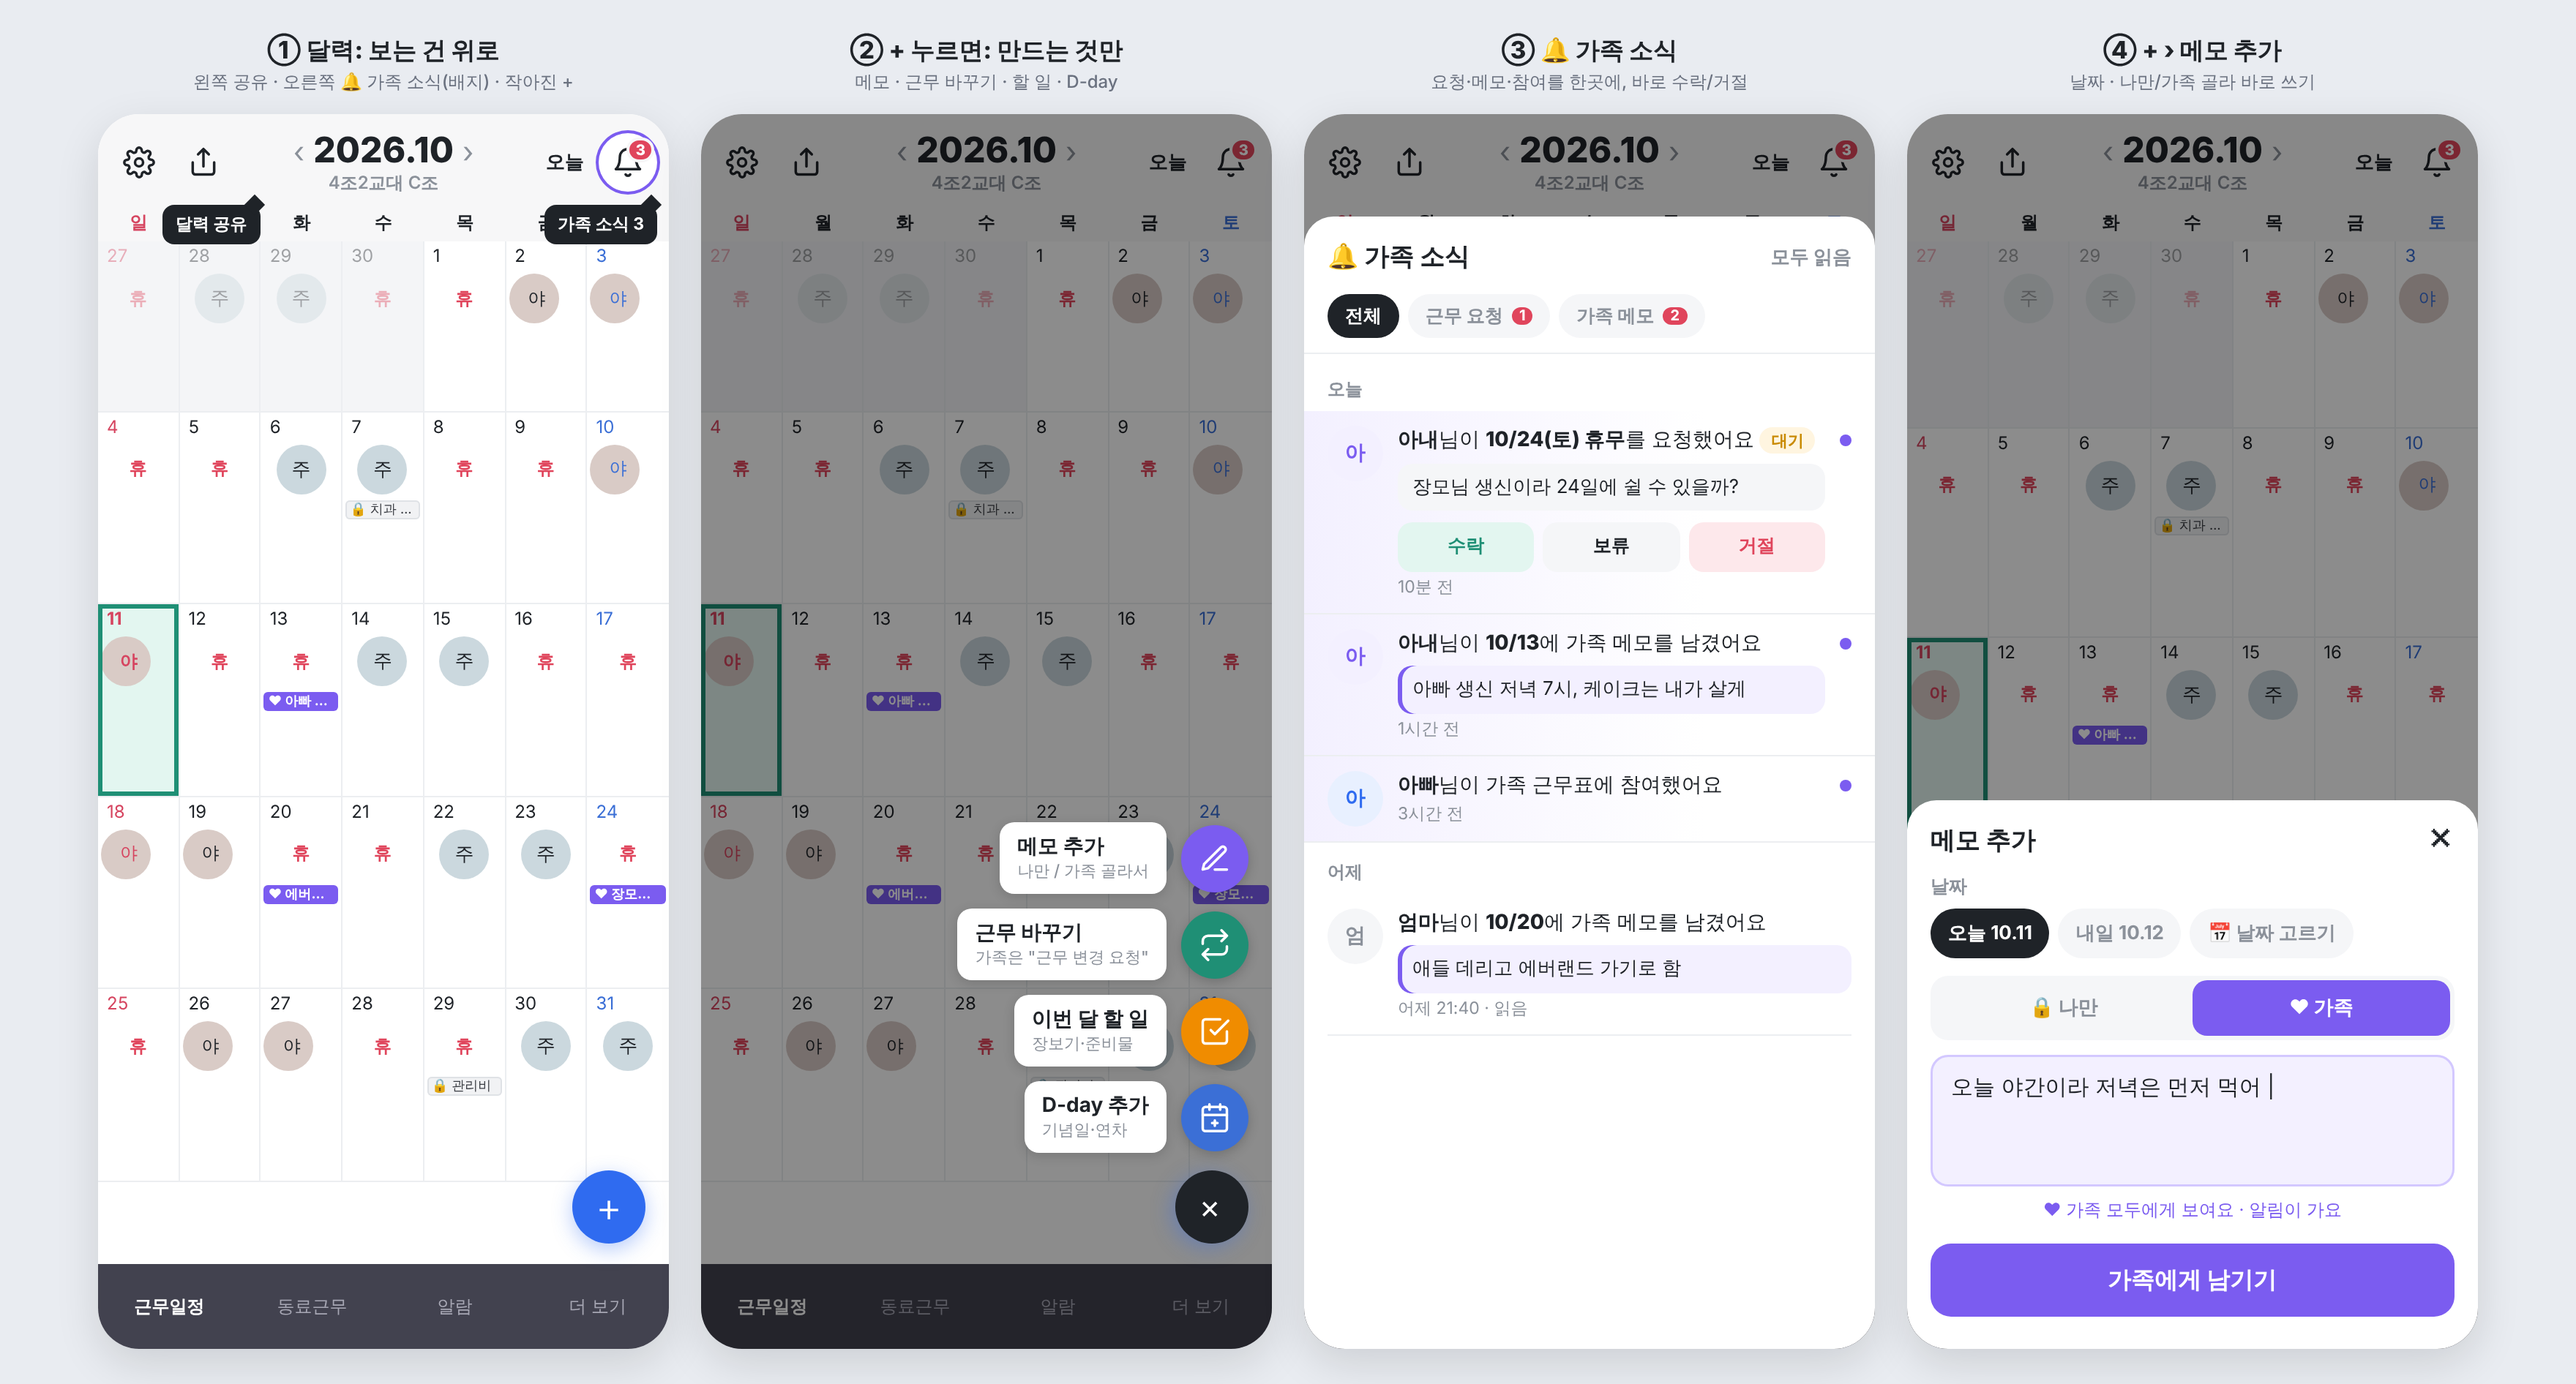
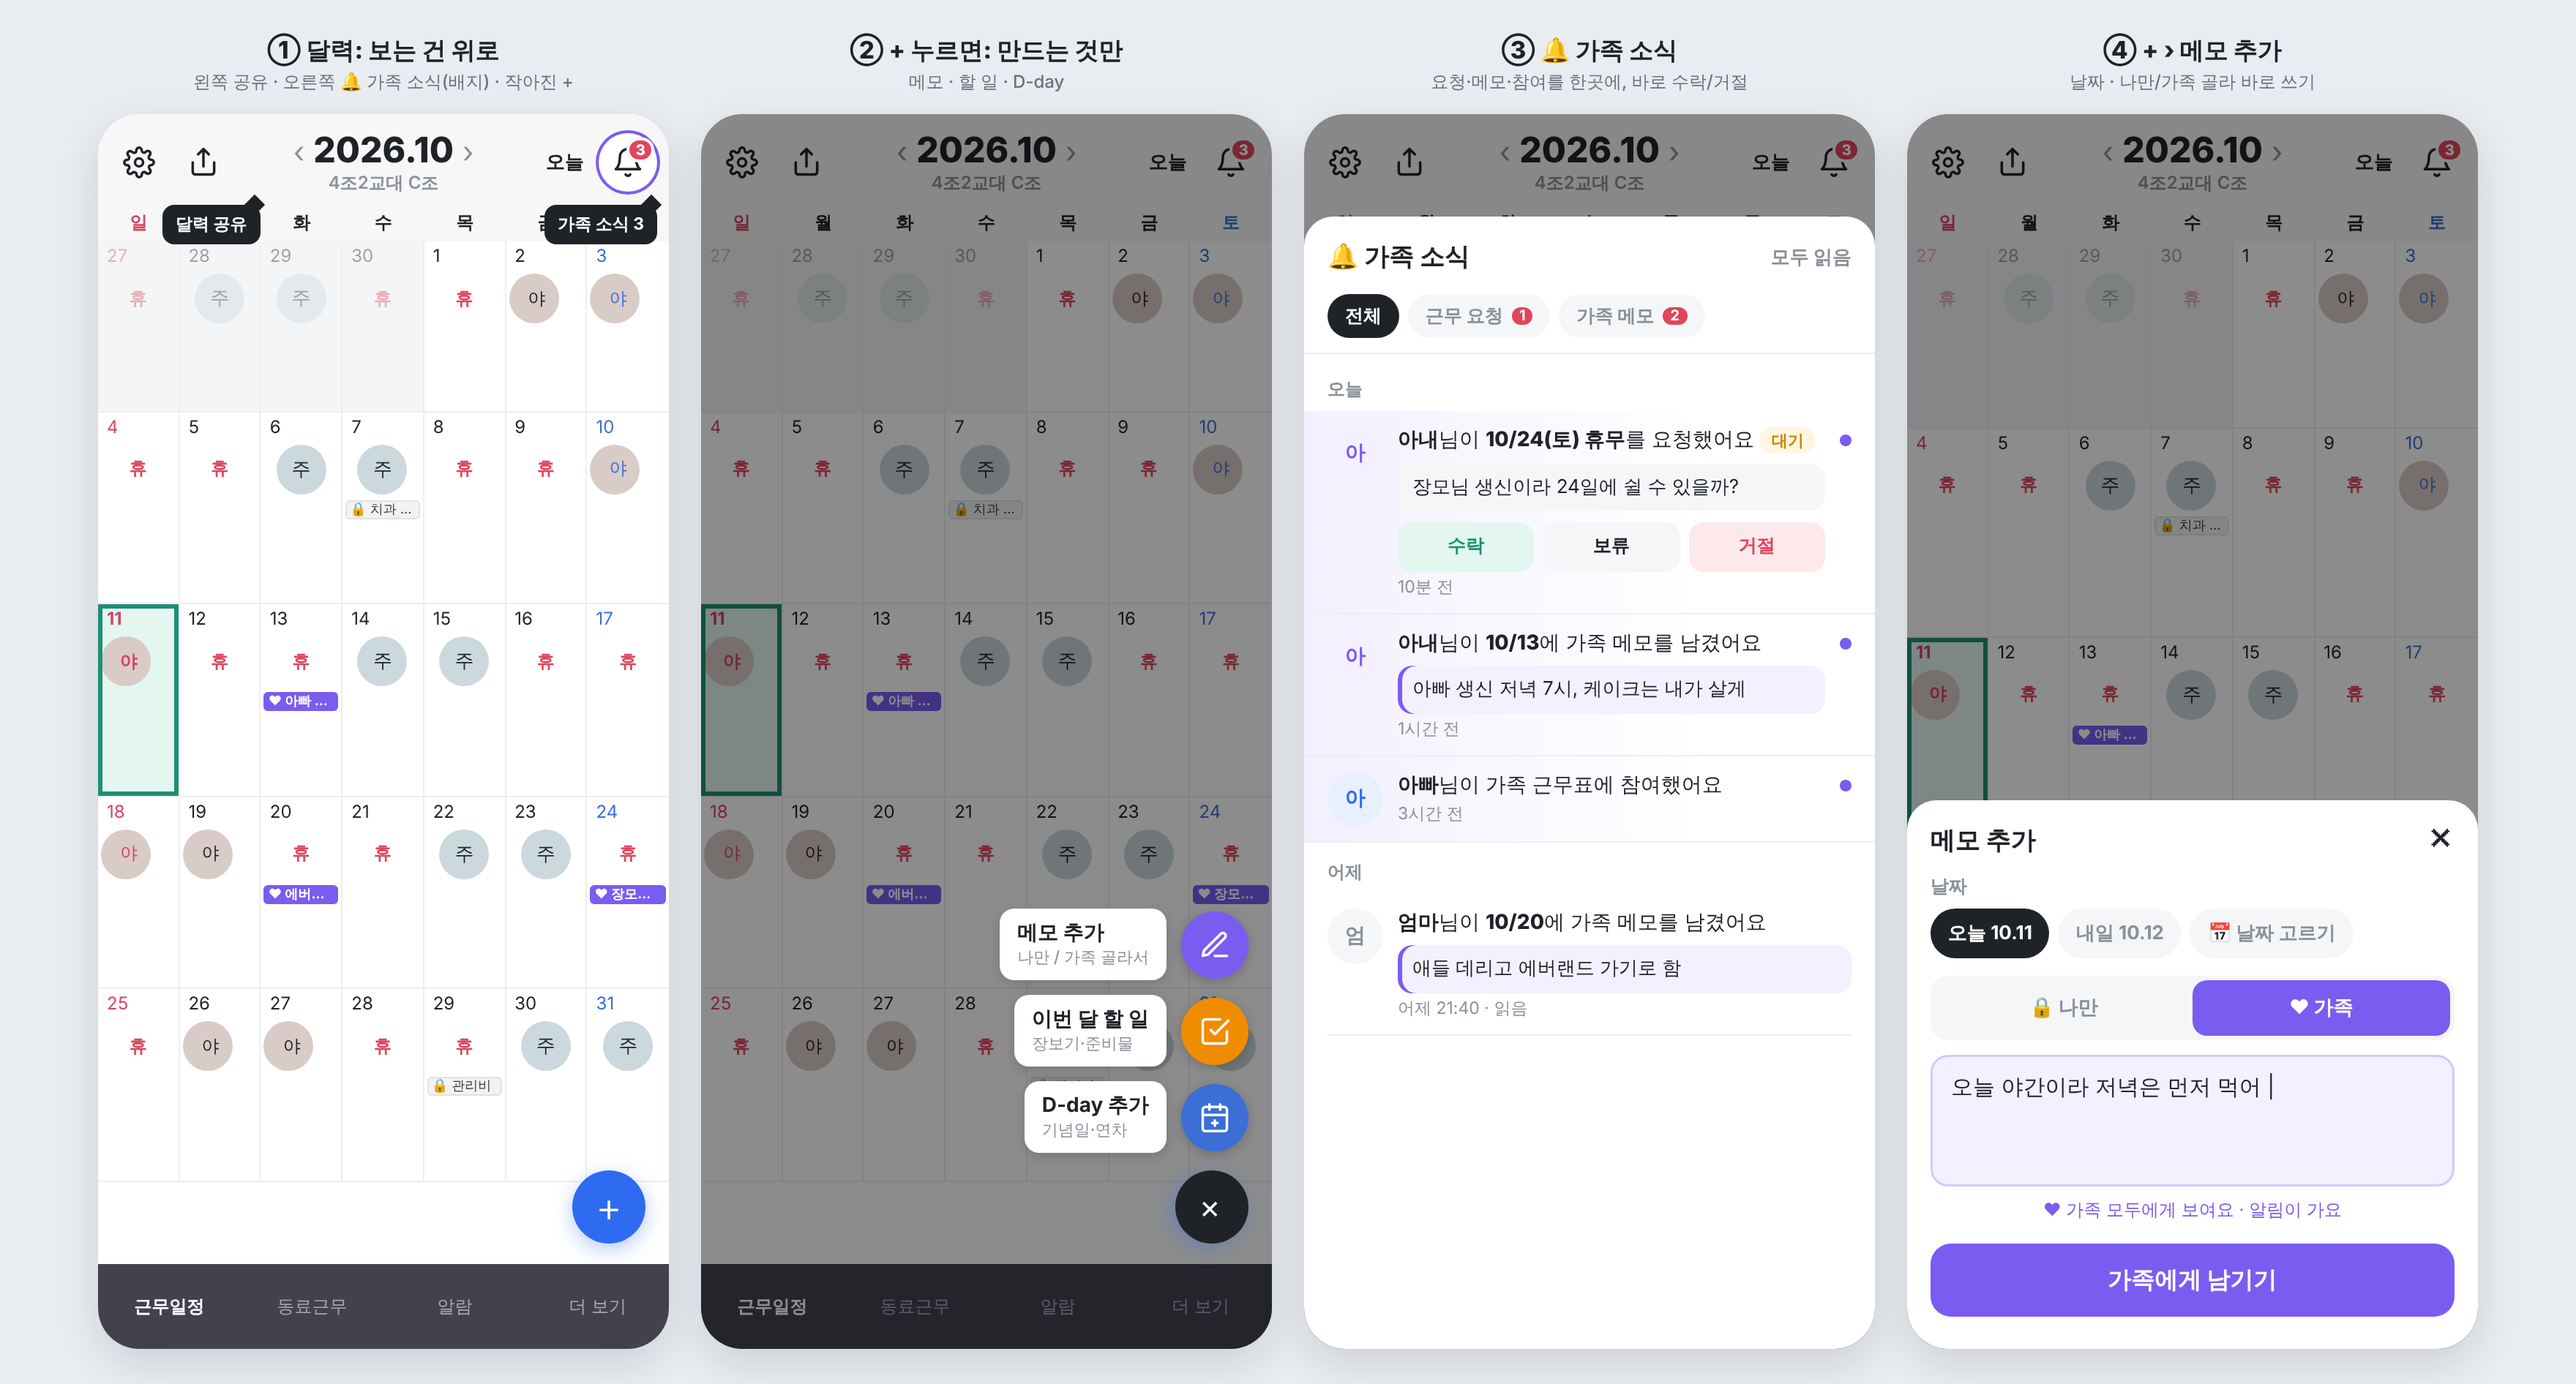
+ 메뉴에서 근무 바꾸기 제거 (날짜를 눌러서만)
Claude-Session: https://claude.ai/code/session_01DP2NyZv5qNdwYSJLeYP8U7

Changed region(s): [[0.375, 0.5925, 0.5, 0.7172], [0.3438, 0.0312, 0.4062, 0.0624]]

diff --git a/design/ui-fab.html b/design/ui-fab.html
@@ -96,7 +96,6 @@ const p1=`<div class="phone">${hdr('bell')}${cal()}<div style="height:56px;backg
 const p2=`<div class="phone">${hdr()}${cal()}<div style="height:56px;background:#fff;flex:none"></div>${nav}<div class="dim"></div>
  <div class="acts">
   <div class="act"><span>메모 추가<small>나만 / 가족 골라서</small></span><i style="background:#7b5cf0">${I.memo}</i></div>
-  <div class="act"><span>근무 바꾸기<small>가족은 "근무 변경 요청"</small></span><i style="background:#1f8f75">${I.swap}</i></div>
   <div class="act"><span>이번 달 할 일<small>장보기·준비물</small></span><i style="background:#f08c00">${I.todo}</i></div>
   <div class="act"><span>D-day 추가<small>기념일·연차</small></span><i style="background:#3b6fd6">${I.dday}</i></div>
  </div><div class="fab x">+</div></div>`;
@@ -126,7 +125,7 @@ const p4=`<div class="phone">${hdr()}${cal()}${nav}<div class="dim"></div>
  </div></div></div>`;
 document.body.innerHTML=`
 <div class="wrap"><div class="cap">① 달력: 보는 건 위로<small>왼쪽 공유 · 오른쪽 🔔 가족 소식(배지) · 작아진 +</small></div>${p1}</div>
-<div class="wrap"><div class="cap">② + 누르면: 만드는 것만<small>메모 · 근무 바꾸기 · 할 일 · D-day</small></div>${p2}</div>
+<div class="wrap"><div class="cap">② + 누르면: 만드는 것만<small>메모 · 할 일 · D-day</small></div>${p2}</div>
 <div class="wrap"><div class="cap">③ 🔔 가족 소식<small>요청·메모·참여를 한곳에, 바로 수락/거절</small></div>${p3}</div>
 <div class="wrap"><div class="cap">④ + › 메모 추가<small>날짜 · 나만/가족 골라 바로 쓰기</small></div>${p4}</div>`;
 </script></body></html>

diff --git a/docs/TODO.md b/docs/TODO.md
@@ -141,6 +141,6 @@
       · 요청 카드에서 바로 수락 / 보류 / 거절, 메모 카드 누르면 그 날짜로 이동, "모두 읽음"
       · 기존 알림 배너 · 가족 요청함 · 가족 메모함은 여기로 합침
 - [ ] + 버튼: 조금 작게(50px), 달력을 넘기거나 스크롤할 때 잠깐 숨김, 마지막 줄 위에 여백
-- [ ] + 메뉴는 "만들기"만: 메모 추가(나만/가족) · 근무 바꾸기(가족은 근무 변경 요청) · 이번 달 할 일 · D-day 추가
+- [ ] + 메뉴는 "만들기"만: 메모 추가(나만/가족) · 이번 달 할 일 · D-day 추가 (근무 바꾸기·요청은 날짜를 눌러서만)
 - [ ] + › 메모 추가: 날짜(오늘 / 내일 / 날짜 고르기) · 나만/가족 · 내용 → 저장 (가족이면 보라 버튼 "가족에게 남기기")
 - [ ] 근무 통계는 "더 보기" 탭으로 이동
